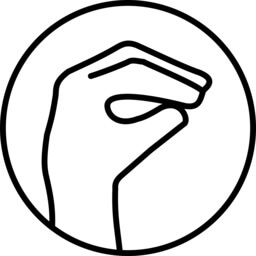
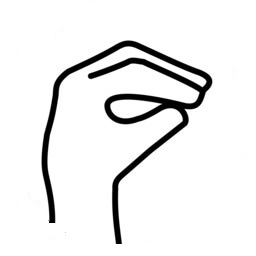
fix: modified images and buttons for hand signs of the game

Changed region(s): [[0.0, 0.0, 1.0, 1.0]]

diff --git a/index.html b/index.html
@@ -18,27 +18,21 @@
 
 
     <!--Game Control section -->
-    <section>
+    <section id="control-area">
         <button id="rock" class="btn-play">
             <img src="assets/images/rock.jpg" alt="Rock hand sign">
-            <spam>Rock</spam>
         </button>
         <button id="paper" class="btn-play">
-            <img src="assets/images/paper.jpg" alt="P
-            aper hand sign">
-            <spam>Paper</spam>
+            <img src="assets/images/paper.jpg" alt="Paper hand sign">
         </button>
         <button id="scissors" class="btn-play">
             <img src="assets/images/scissor.jpg" alt="Scissors hand sign">
-            <spam>Scissors</spam>
         </button>
         <button id="spock" class="btn-play">
             <img src="assets/images/spock.jpg" alt="Spock hand sign">
-            <spam>Spock</spam>
         </button>
         <button id="lizard" class="btn-play">
             <img src="assets/images/lizard.jpg" alt="Lizard hand sign">
-            <spam>Lizard</spam>
         </button>
     </section>
 

diff --git a/assets/css/style.css b/assets/css/style.css
@@ -1,4 +1,31 @@
 body {
-    background: FloralWhite
-;
+    background: FloralWhite;
+}
+
+.control-area {
+    display: flex;
+    flex-wrap: wrap;
+    justify-content: center;
+}
+
+.btn-play {
+    width: 150px;
+    height: 150px;
+    border-radius: 50%;
+    border: 2px solid black;
+    background-color: white;
+    display: flex;
+    justify-content: center;
+    align-items: center;
+    margin: 10px;
+}
+
+.btn-play:hover {
+    background-color: black;
+}
+
+.btn-play img {
+    max-width: 100%;
+    max-height: 100%;
+    border-radius: 50%;
 }
